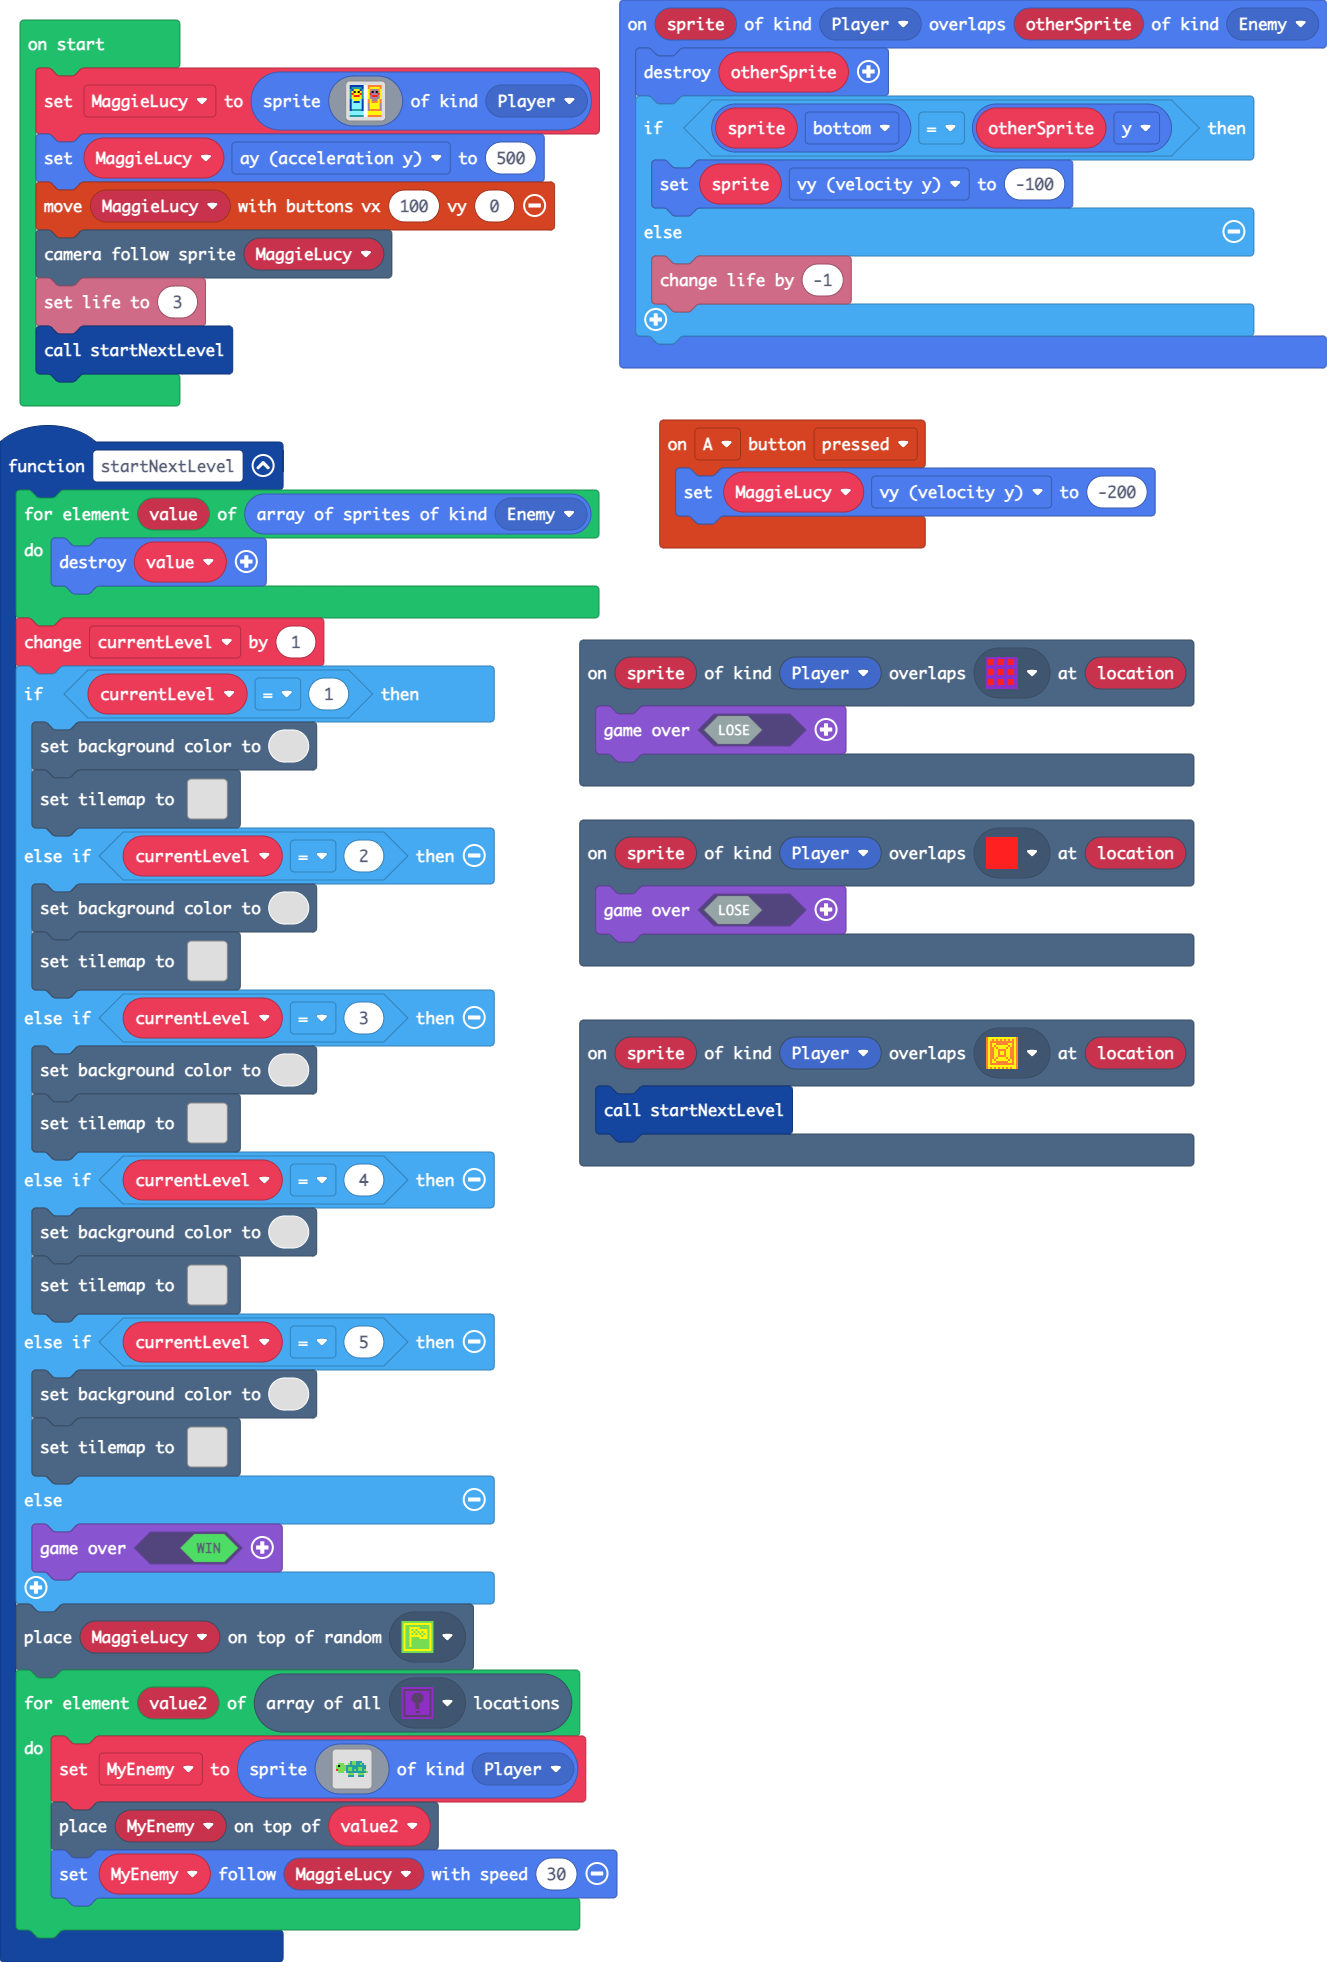
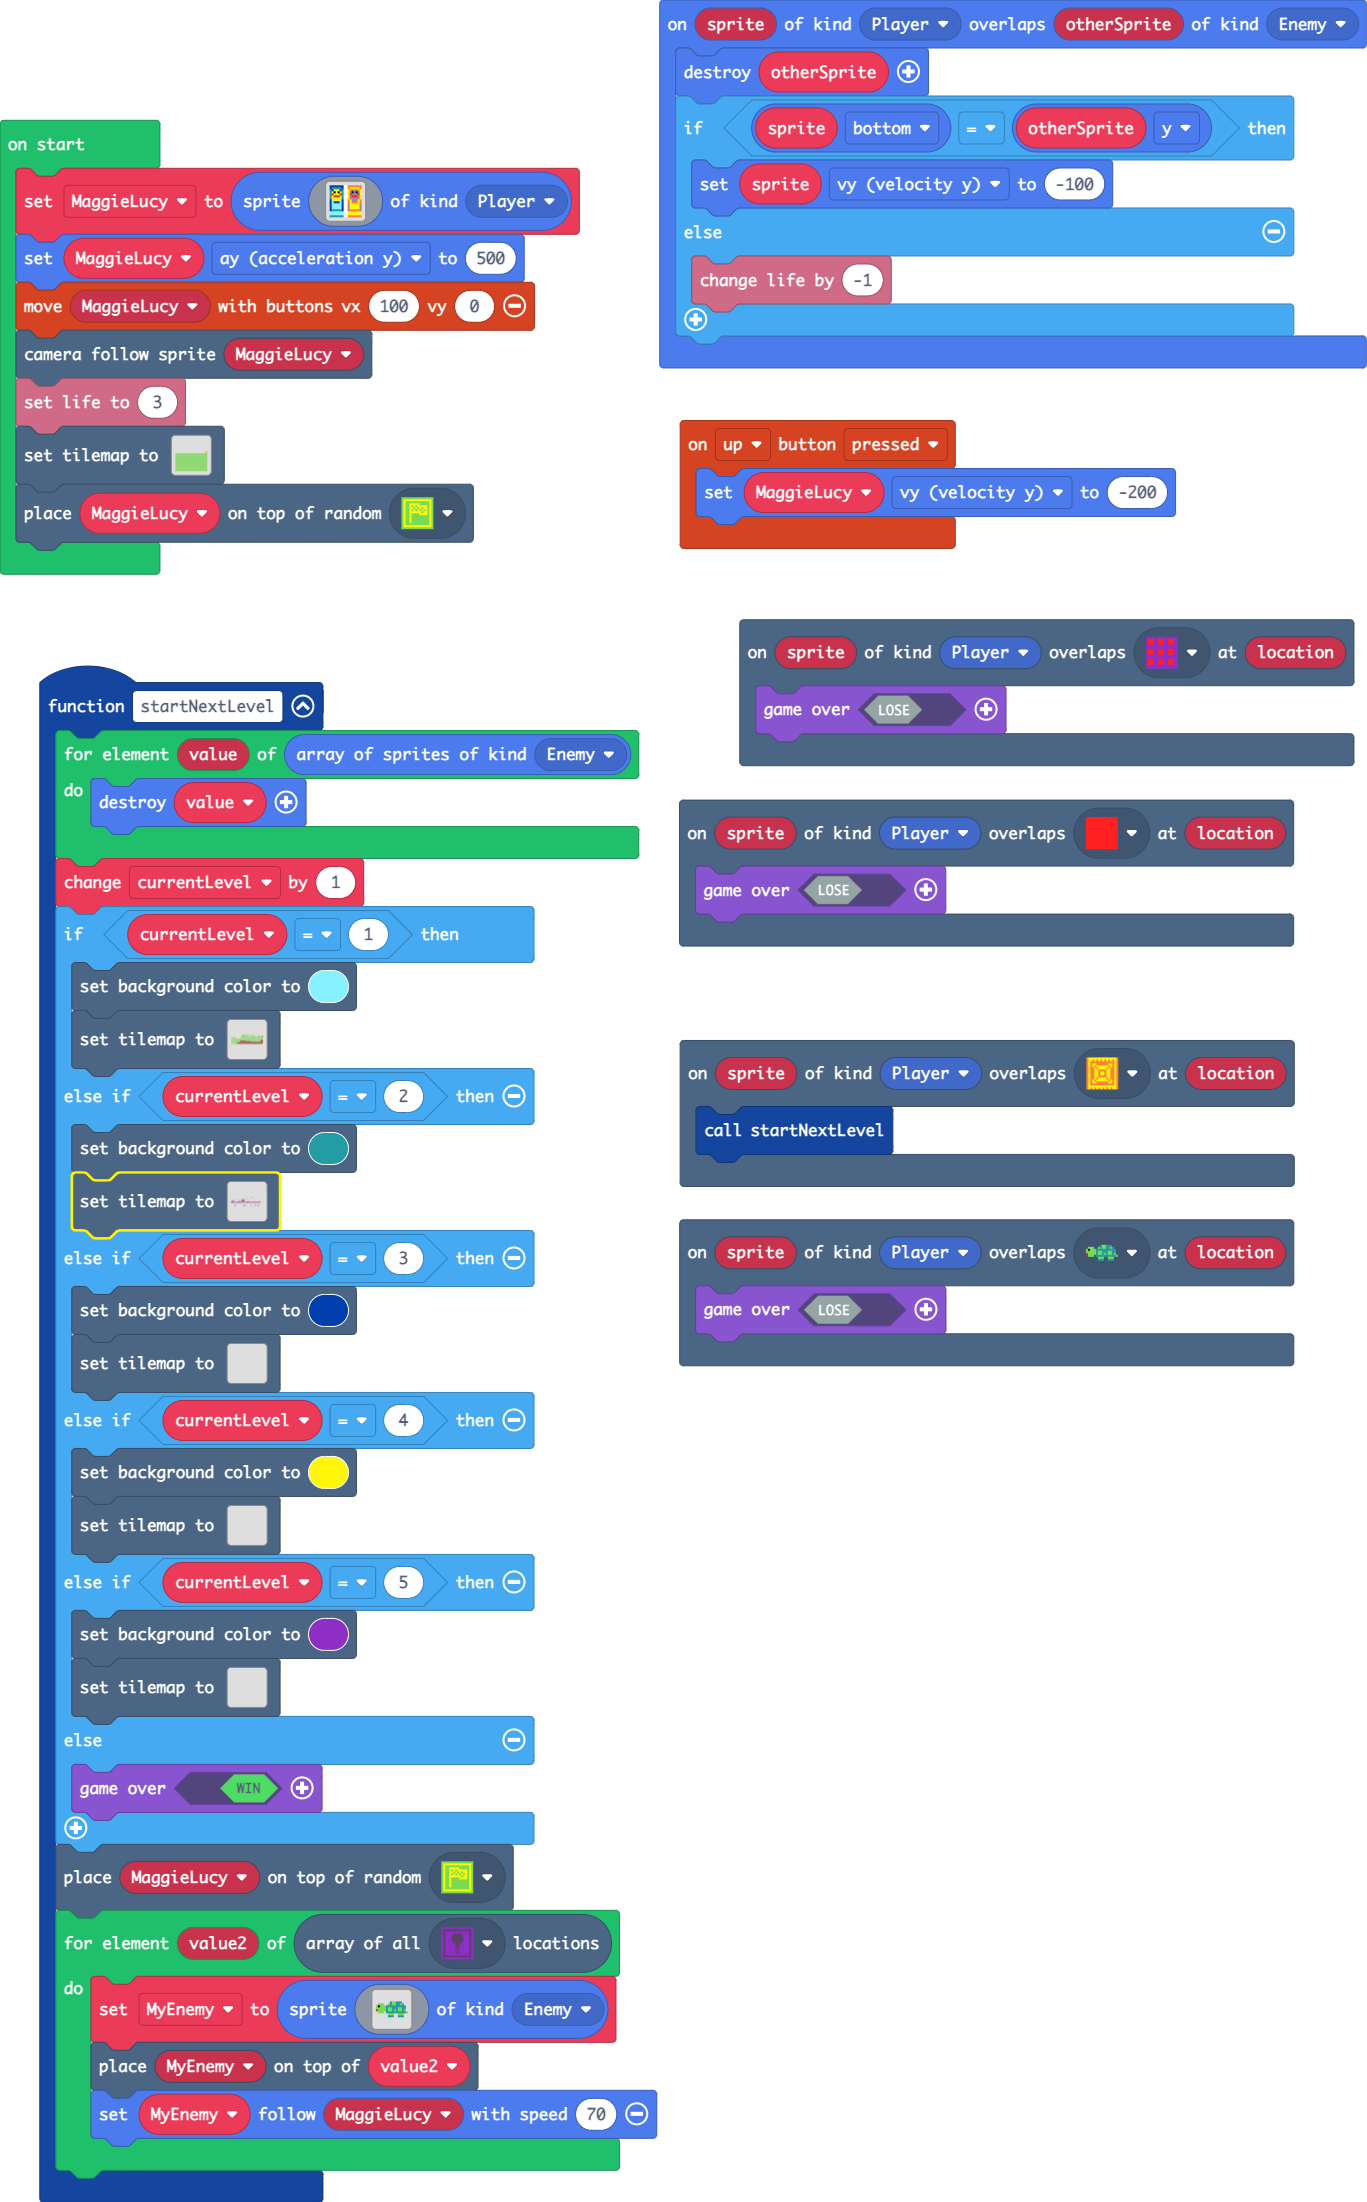
Update main.blocks, main.ts, tilemap.g.jres, tilemap.g.ts

diff --git a/tilemap.g.ts b/tilemap.g.ts
@@ -15,48 +15,22 @@ namespace myTiles {
     //% fixedInstance jres blockIdentity=images._tile
     export const tile6 = image.ofBuffer(hex``);
     //% fixedInstance jres blockIdentity=images._tile
+    export const tile8 = image.ofBuffer(hex``);
+    //% fixedInstance jres blockIdentity=images._tile
+    export const tile9 = image.ofBuffer(hex``);
+    //% fixedInstance jres blockIdentity=images._tile
     export const tile7 = image.ofBuffer(hex``);
+    //% fixedInstance jres blockIdentity=images._tile
+    export const tile10 = image.ofBuffer(hex``);
+    //% fixedInstance jres blockIdentity=images._tile
+    export const tile11 = image.ofBuffer(hex``);
+    //% fixedInstance jres blockIdentity=images._tile
+    export const tile12 = image.ofBuffer(hex``);
+    //% fixedInstance jres blockIdentity=images._tile
+    export const tile13 = image.ofBuffer(hex``);
 
     helpers._registerFactory("tilemap", function(name: string) {
         switch(helpers.stringTrim(name)) {
-            case "level1":
-            case "level1":return tiles.createTilemap(hex`1000100000000000000000000000000000000000000000000000000000000000000000000000000000000000000000000000000000000000000000000000000000000000000000000000000000000000000000000000000000000000000000000000000000000000000000000000000000000000000000000000000000000000000000000000000000000000000000000000000000000000000000000000000000000000000000000000000000000000000000000000000000000000000000000000000000000000000000000000000000000000000000000000000000000000000000000000000000000000000000000000000000000000000000000000000000000000`, img`
-. . . . . . . . . . . . . . . . 
-. . . . . . . . . . . . . . . . 
-. . . . . . . . . . . . . . . . 
-. . . . . . . . . . . . . . . . 
-. . . . . . . . . . . . . . . . 
-. . . . . . . . . . . . . . . . 
-. . . . . . . . . . . . . . . . 
-. . . . . . . . . . . . . . . . 
-. . . . . . . . . . . . . . . . 
-. . . . . . . . . . . . . . . . 
-. . . . . . . . . . . . . . . . 
-. . . . . . . . . . . . . . . . 
-. . . . . . . . . . . . . . . . 
-. . . . . . . . . . . . . . . . 
-. . . . . . . . . . . . . . . . 
-. . . . . . . . . . . . . . . . 
-`, [myTiles.transparency16], TileScale.Sixteen);
-            case "level2":
-            case "level2":return tiles.createTilemap(hex`1000100000000000000000000000000000000000000000000000000000000000000000000000000000000000000000000000000000000000000000000000000000000000000000000000000000000000000000000000000000000000000000000000000000000000000000000000000000000000000000000000000000000000000000000000000000000000000000000000000000000000000000000000000000000000000000000000000000000000000000000000000000000000000000000000000000000000000000000000000000000000000000000000000000000000000000000000000000000000000000000000000000000000000000000000000000000000`, img`
-. . . . . . . . . . . . . . . . 
-. . . . . . . . . . . . . . . . 
-. . . . . . . . . . . . . . . . 
-. . . . . . . . . . . . . . . . 
-. . . . . . . . . . . . . . . . 
-. . . . . . . . . . . . . . . . 
-. . . . . . . . . . . . . . . . 
-. . . . . . . . . . . . . . . . 
-. . . . . . . . . . . . . . . . 
-. . . . . . . . . . . . . . . . 
-. . . . . . . . . . . . . . . . 
-. . . . . . . . . . . . . . . . 
-. . . . . . . . . . . . . . . . 
-. . . . . . . . . . . . . . . . 
-. . . . . . . . . . . . . . . . 
-. . . . . . . . . . . . . . . . 
-`, [myTiles.transparency16], TileScale.Sixteen);
             case "level3":
             case "level3":return tiles.createTilemap(hex`1000100000000000000000000000000000000000000000000000000000000000000000000000000000000000000000000000000000000000000000000000000000000000000000000000000000000000000000000000000000000000000000000000000000000000000000000000000000000000000000000000000000000000000000000000000000000000000000000000000000000000000000000000000000000000000000000000000000000000000000000000000000000000000000000000000000000000000000000000000000000000000000000000000000000000000000000000000000000000000000000000000000000000000000000000000000000000`, img`
 . . . . . . . . . . . . . . . . 
@@ -114,6 +88,44 @@ namespace myTiles {
 . . . . . . . . . . . . . . . . 
 . . . . . . . . . . . . . . . . 
 `, [myTiles.transparency16,myTiles.tile1,myTiles.tile2,myTiles.tile3,myTiles.tile4], TileScale.Sixteen);
+            case "level7":
+            case "level7":return tiles.createTilemap(hex`1000100000000000000000000000000000000000000000000000000000000000000000000000000000000000000000000000000000000000000000000000000000000000000000000000000000000000000000000000000000000000000000000000000000000000000000000000000000000002010101010101010101010101010101010101010101010101010101010101010101010101010101010101010101010101010101010101010101010101010101010101010101010101010101010101010101010101010101010101010101010101010101010101010101010101010101010101010101010101010101010101010101010101010101010101010101010101`, img`
+. . . . . . . . . . . . . . . . 
+. . . . . . . . . . . . . . . . 
+. . . . . . . . . . . . . . . . 
+. . . . . . . . . . . . . . . . 
+. . . . . . . . . . . . . . . . 
+. . . . . . . . . . . . . . . . 
+. . . . . . . . . . . . . . . . 
+2 2 2 2 2 2 2 2 2 2 2 2 2 2 2 2 
+2 2 2 2 2 2 2 2 2 2 2 2 2 2 2 2 
+2 2 2 2 2 2 2 2 2 2 2 2 2 2 2 2 
+2 2 2 2 2 2 2 2 2 2 2 2 2 2 2 2 
+2 2 2 2 2 2 2 2 2 2 2 2 2 2 2 2 
+2 2 2 2 2 2 2 2 2 2 2 2 2 2 2 2 
+2 2 2 2 2 2 2 2 2 2 2 2 2 2 2 2 
+2 2 2 2 2 2 2 2 2 2 2 2 2 2 2 2 
+2 2 2 2 2 2 2 2 2 2 2 2 2 2 2 2 
+`, [myTiles.transparency16,sprites.castle.tileGrass2,myTiles.tile1], TileScale.Sixteen);
+            case "level1":
+            case "level1":return tiles.createTilemap(hex`320010000000000000000000000000000000000000000000000000000000000000000000000000000000000000000000000000000000000000000000000000000000000000000000000000000000000000000000000000000000000000000000000000000000000000000000000000000000000000000000000000000005050505050505000000000200000000000000000000000000000000000004000000000000000000000000000000000802020505050505050500000505050505050500000000050505050000000000000000000000000000000000000000050505050505050505050505050000050505050505050000000005050505000000030300000000000000000000000000000005050505050505050505050505000005050505050505020000000505050502000003030000000002000000000000000000000505050505050505050505050506060505050505050505050505050505050505050505050505050505050505000000000000050505050505050505050505050505050505050505050505050505050505050505050505050505050505050500000205050505050505050505050505050505050505050505050505050505050505050505050505050505050505050505050606050505050505050505050505050505050505050505050505050505050505050505050505050505050505050505050505050505050505050505050505050505050505050505050505050505050505050505050505050707070705050505050505050505050505050707070707070707070505050505050505050505050505050505050505050505070707070505050505050505050505050505070707070707070707070707070707070707050505050505050505050505050507070707050505050505050505050505050507070707070707070707070707070707070707070707070707070707070707070707070705050505050505050507070707070707070707070707070707070707070707070707070707070707070707070707070707070505050505050505050707070707070707020307070707070702030707070707070702030707070707070702030707070701`, img`
+..................................................
+..................................................
+.....................2222222......................
+.....................2222222..2222222....2222.....
+...............2222222222222..2222222....2222.....
+...............2222222222222..2222222....2222.....
+...............2222222222222..22222222222222222222
+222222222......2222222222222..22222222222222222222
+222222222...2222222222222222..22222222222222222222
+222222222..22222222222222222..22222222222222222222
+222222222..222222222222...........................
+222222222..222....................................
+222222222..222....................................
+222222222..222....................................
+222222222.........................................
+222222222.........................................
+`, [myTiles.transparency16,myTiles.tile1,myTiles.tile3,myTiles.tile4,myTiles.tile5,sprites.castle.tileGrass2,myTiles.tile8,myTiles.tile10,myTiles.tile6], TileScale.Sixteen);
             case "level5":
             case "level5":return tiles.createTilemap(hex`1000100000000000000000000000000000000000000000000000000000000000000000000000000000000000000000000000000000000000000000000000000000000000000000000000000000000000000000000000000000000000000000000000000000000000000000000000000000000000000000000000000000000000000000000000000000000000000000000000000000000000000000000000000000000000000000000000000000000000000000000000000000000000000000000000000000000000000000000000000000000000000000000000000000000000000000000000000000000000000000000000000000000000000000000000000000000000`, img`
 . . . . . . . . . . . . . . . . 
@@ -132,7 +144,26 @@ namespace myTiles {
 . . . . . . . . . . . . . . . . 
 . . . . . . . . . . . . . . . . 
 . . . . . . . . . . . . . . . . 
-`, [myTiles.transparency16,myTiles.tile6,myTiles.tile7], TileScale.Sixteen);
+`, [myTiles.transparency16,myTiles.tile12,myTiles.tile13], TileScale.Sixteen);
+            case "level2":
[1 lines of base64/hex data omitted]
+..................................................
+..................................................
+..................................................
+..............................222.................
+..................................................
+.........2..............222............2..........
+................22222.............................
+............22..22222..............2........2.....
+2222..2.........22222.............................
+2222..........................................2...
+2222222222222222222222222222222222222222222222....
+..................................................
+..................................................
+..................................................
+..................................................
+..................................................
+`, [myTiles.transparency16,sprites.builtin.oceanSand2,sprites.builtin.oceanSand14,sprites.builtin.oceanSand10,myTiles.tile1,myTiles.tile4,myTiles.tile5,myTiles.tile6,sprites.builtin.oceanSand8,sprites.builtin.oceanSand3,sprites.builtin.oceanSand0,sprites.builtin.oceanSand1,sprites.builtin.oceanSand15,sprites.builtin.oceanSand13,sprites.builtin.coral1,sprites.builtin.coral3], TileScale.Sixteen);
         }
         return null;
     })
@@ -152,8 +183,20 @@ namespace myTiles {
             case "tile5":return tile5;
             case "myTile4":
             case "tile6":return tile6;
+            case "myTile6":
+            case "tile8":return tile8;
+            case "myTile7":
+            case "tile9":return tile9;
             case "myTile5":
             case "tile7":return tile7;
+            case "myTile8":
+            case "tile10":return tile10;
+            case "myTile9":
+            case "tile11":return tile11;
+            case "myTile10":
+            case "tile12":return tile12;
+            case "myTile11":
+            case "tile13":return tile13;
         }
         return null;
     })

diff --git a/main.ts b/main.ts
@@ -1,11 +1,11 @@
 scene.onOverlapTile(SpriteKind.Player, assets.tile`myTile1`, function (sprite, location) {
     game.over(false)
 })
+controller.up.onEvent(ControllerButtonEvent.Pressed, function () {
+    MaggieLucy.vy = -200
+})
 scene.onOverlapTile(SpriteKind.Player, assets.tile`myTile`, function (sprite, location) {
     startNextLevel()
-})
-controller.A.onEvent(ControllerButtonEvent.Pressed, function () {
-    MaggieLucy.vy = -200
 })
 function startNextLevel () {
     for (let value of sprites.allOfKind(SpriteKind.Enemy)) {
@@ -13,31 +13,34 @@ function startNextLevel () {
     }
     currentLevel += 1
     if (currentLevel == 1) {
-        scene.setBackgroundColor(0)
+        scene.setBackgroundColor(9)
         tiles.setTilemap(tilemap`level1`)
     } else if (currentLevel == 2) {
-        scene.setBackgroundColor(0)
+        scene.setBackgroundColor(6)
         tiles.setTilemap(tilemap`level2`)
     } else if (currentLevel == 3) {
-        scene.setBackgroundColor(0)
+        scene.setBackgroundColor(8)
         tiles.setTilemap(tilemap`level3`)
     } else if (currentLevel == 4) {
-        scene.setBackgroundColor(0)
+        scene.setBackgroundColor(5)
         tiles.setTilemap(tilemap`level4`)
     } else if (currentLevel == 5) {
-        scene.setBackgroundColor(0)
+        scene.setBackgroundColor(10)
         tiles.setTilemap(tilemap`level5`)
     } else {
         game.over(true)
     }
     tiles.placeOnRandomTile(MaggieLucy, assets.tile`myTile3`)
     for (let value2 of tiles.getTilesByType(assets.tile`myTile4`)) {
-        MyEnemy = sprites.create(assets.tile`myTile5`, SpriteKind.Player)
+        MyEnemy = sprites.create(assets.tile`myTile5`, SpriteKind.Enemy)
         tiles.placeOnTile(MyEnemy, value2)
-        MyEnemy.follow(MaggieLucy, 30)
+        MyEnemy.follow(MaggieLucy, 70)
     }
 }
 scene.onOverlapTile(SpriteKind.Player, assets.tile`myTile2`, function (sprite, location) {
+    game.over(false)
+})
+scene.onOverlapTile(SpriteKind.Player, assets.tile`myTile5`, function (sprite, location) {
     game.over(false)
 })
 sprites.onOverlap(SpriteKind.Player, SpriteKind.Enemy, function (sprite, otherSprite) {
@@ -73,4 +76,5 @@ MaggieLucy.ay = 500
 controller.moveSprite(MaggieLucy, 100, 0)
 scene.cameraFollowSprite(MaggieLucy)
 info.setLife(3)
-startNextLevel()
+tiles.setTilemap(tilemap`level7`)
+tiles.placeOnRandomTile(MaggieLucy, assets.tile`myTile3`)
